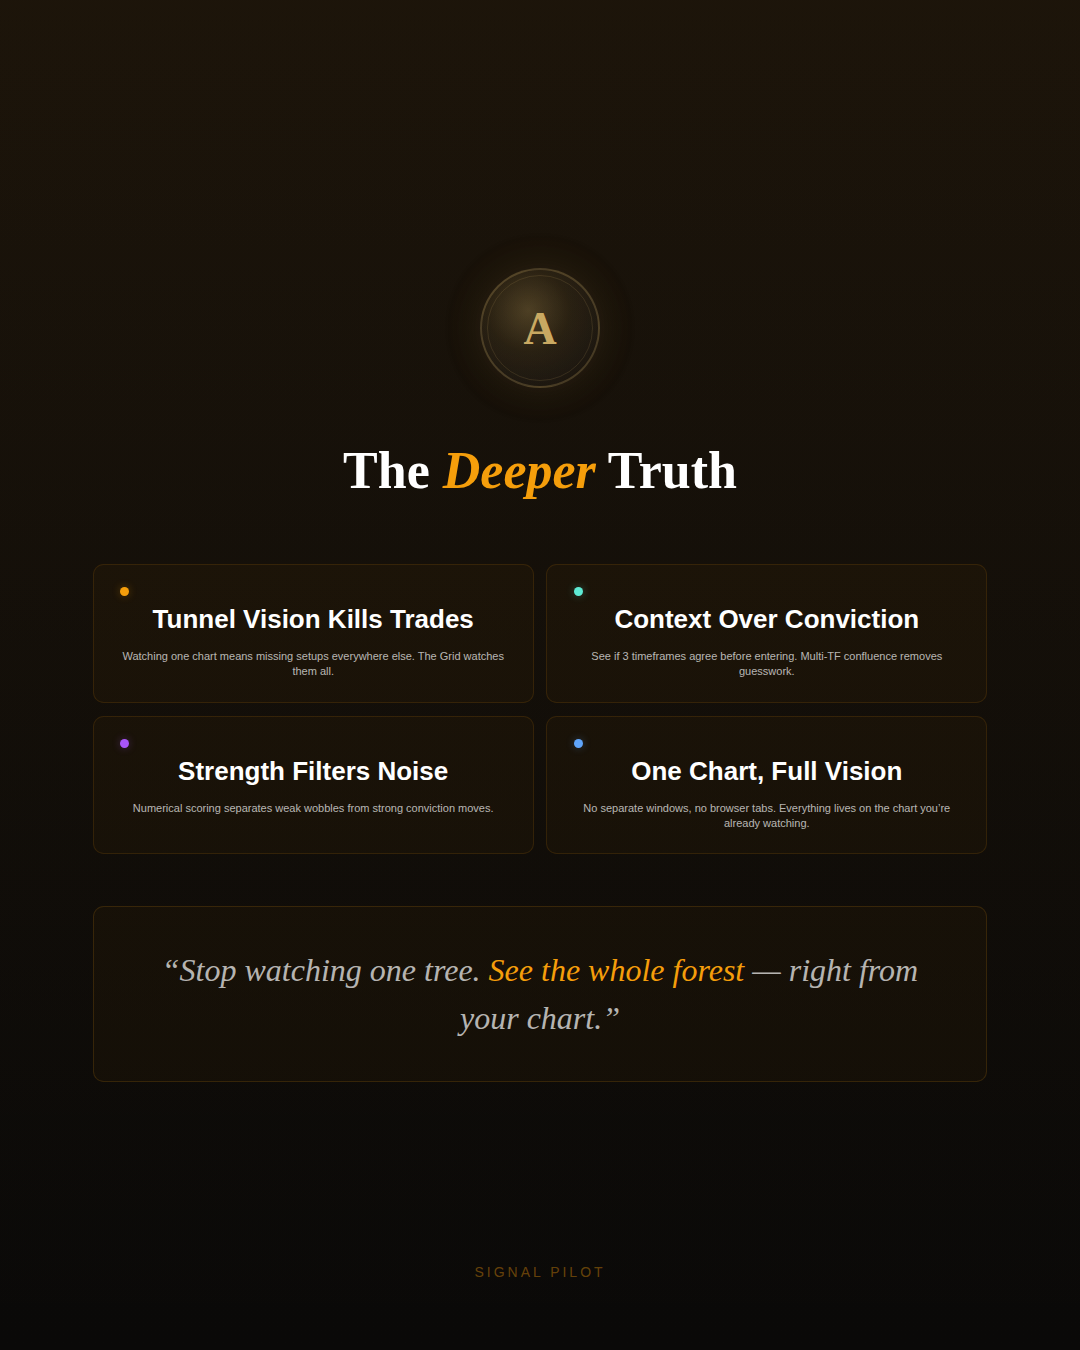
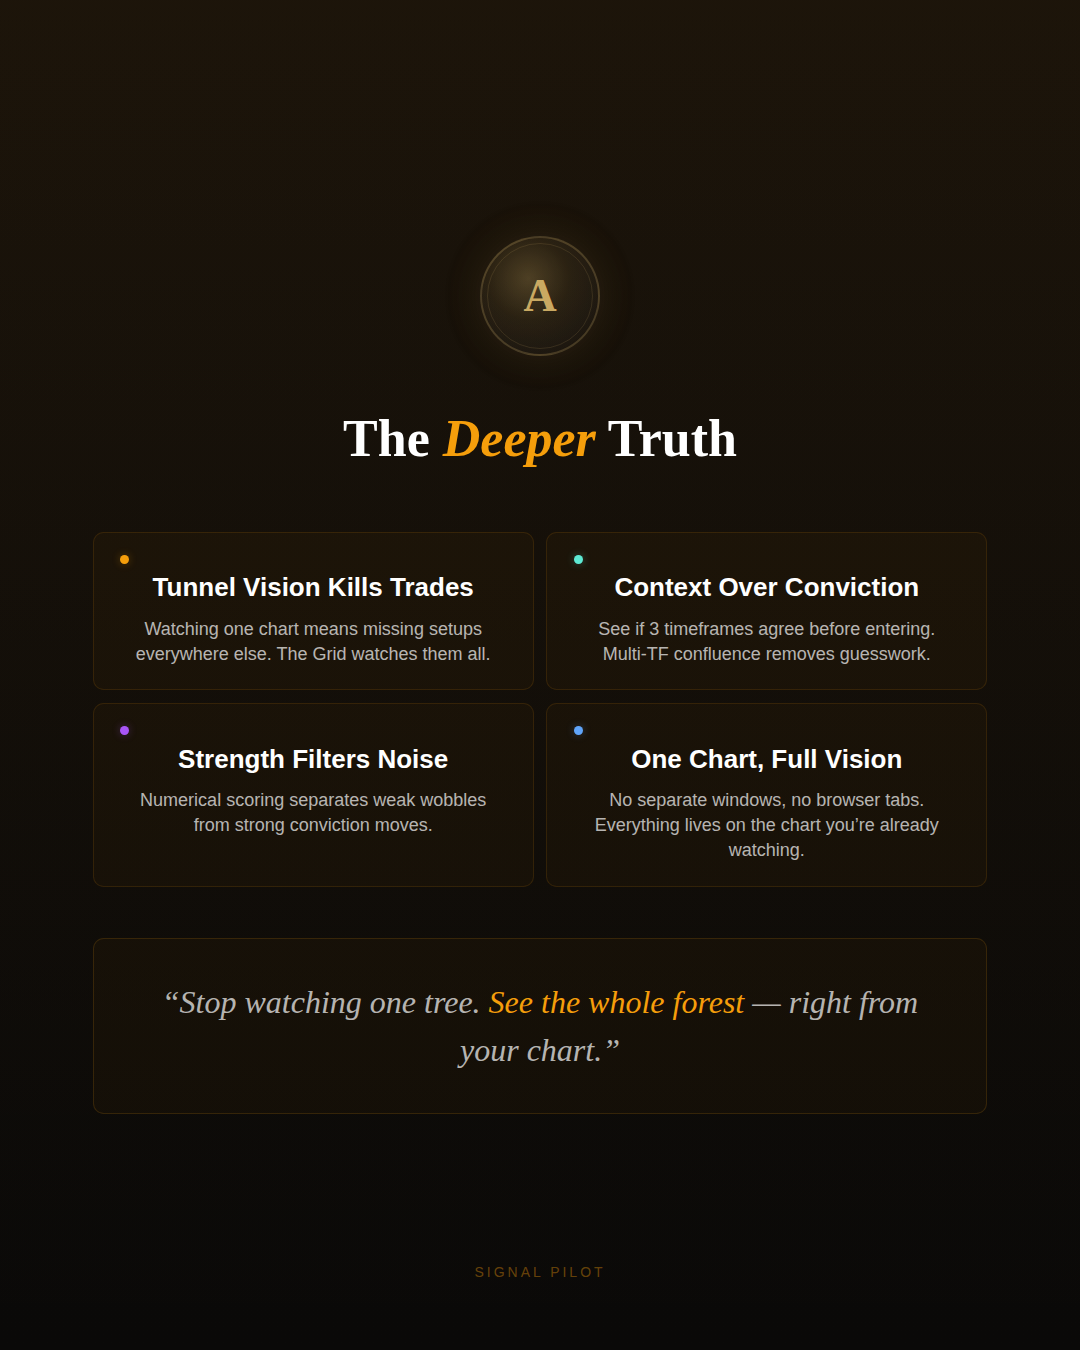
Increase text sizes on post-045 for Instagram mobile readability
Bumped indicator names, codenames, descriptions, feature card labels,
stat labels, truth card titles and body text.

https://claude.ai/code/session_01JdAyDtW3X2RhJAyPJGnP6R

diff --git a/INSTAGRAM_CONTENT_HUB/social/post-045/carousel.html b/INSTAGRAM_CONTENT_HUB/social/post-045/carousel.html
@@ -269,14 +269,14 @@
     .indicator-info { flex: 1; }
     .indicator-name {
       font-family: var(--font-sans);
-      font-size: clamp(9px, 1.5cqw, 16px);
+      font-size: clamp(14px, 2.4cqw, 24px);
       font-weight: 600;
       color: var(--text-primary);
       margin-bottom: 1%;
     }
     .indicator-codename {
       font-family: var(--font-mono);
-      font-size: clamp(6px, 0.9cqw, 10px);
+      font-size: clamp(8px, 1.3cqw, 13px);
       letter-spacing: 0.15em;
       text-transform: uppercase;
       color: var(--accent-orange);
@@ -284,7 +284,7 @@
     }
     .indicator-desc {
       font-family: var(--font-sans);
-      font-size: clamp(7px, 1.05cqw, 11px);
+      font-size: clamp(11px, 1.8cqw, 18px);
       color: var(--text-secondary);
       line-height: 1.35;
     }
@@ -335,7 +335,7 @@
     }
     .stat-label {
       font-family: var(--font-mono);
-      font-size: clamp(5px, 0.8cqw, 9px);
+      font-size: clamp(7px, 1.1cqw, 12px);
       color: var(--text-muted);
       letter-spacing: 0.1em;
       text-transform: uppercase;
@@ -389,7 +389,7 @@
     .fic-green::before { border: 1px solid rgba(74,222,128,0.12); }
     .fic-letter {
       font-family: var(--font-serif);
-      font-size: clamp(11px, 1.8cqw, 18px);
+      font-size: clamp(14px, 2.4cqw, 24px);
       font-weight: 700;
       position: relative;
       z-index: 1;
@@ -402,8 +402,8 @@
     .fic-green .fic-letter { color: var(--accent-green); }
     .feature-text {
       font-family: var(--font-sans);
-      font-size: clamp(8px, 1.2cqw, 13px);
-      font-weight: 500;
+      font-size: clamp(11px, 1.7cqw, 18px);
+      font-weight: 600;
       color: var(--text-primary);
     }
 
@@ -463,7 +463,7 @@
     .td-blue { background: var(--accent-blue); box-shadow: 0 0 8px rgba(96,165,250,0.3); }
     .truth-card-title {
       font-family: var(--font-sans);
-      font-size: clamp(8px, 1.3cqw, 14px);
+      font-size: clamp(13px, 2.2cqw, 22px);
       font-weight: 600;
       color: var(--text-primary);
       margin-bottom: 3%;
@@ -471,7 +471,7 @@
     }
     .truth-card-text {
       font-family: var(--font-sans);
-      font-size: clamp(7px, 1.05cqw, 11px);
+      font-size: clamp(11px, 1.8cqw, 18px);
       color: var(--text-secondary);
       line-height: 1.4;
     }
